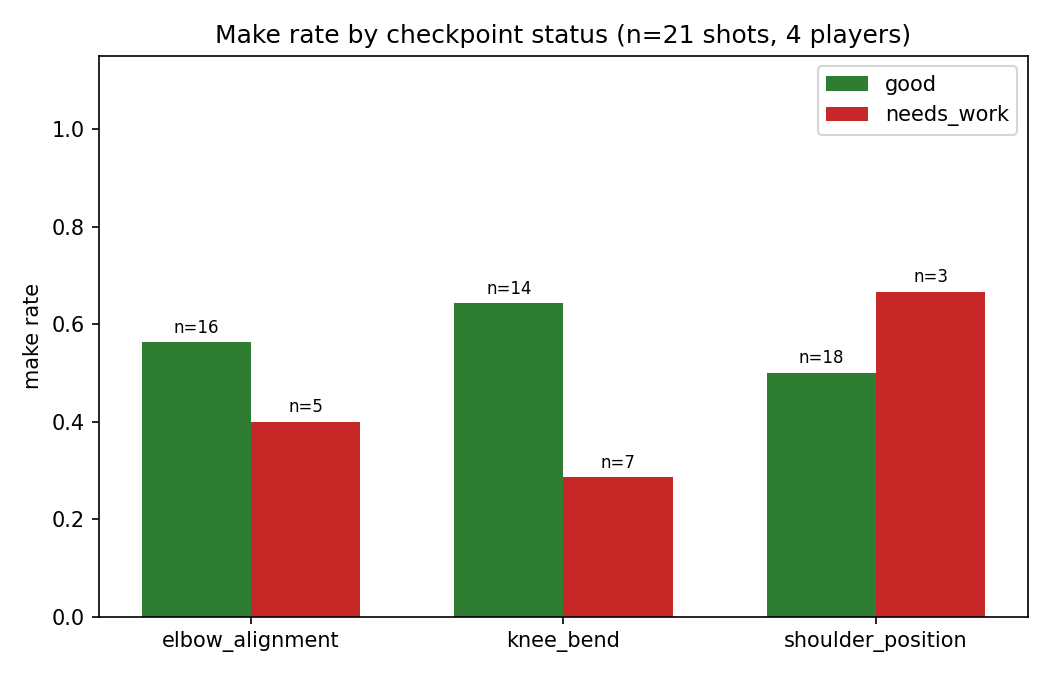
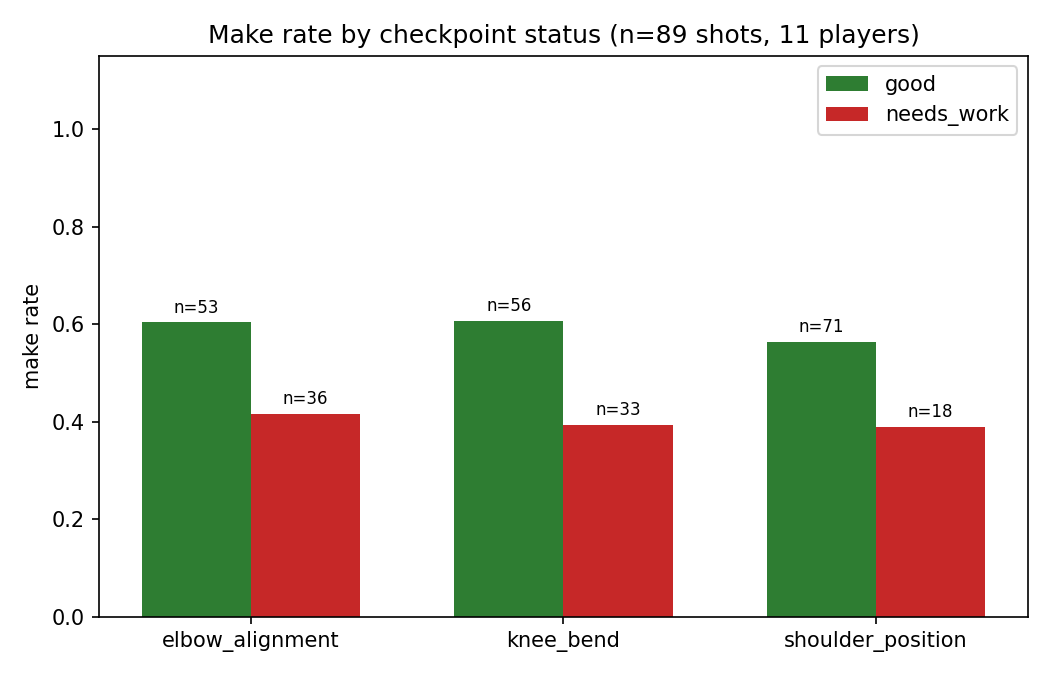
feat: Finals #09 - complete dataset (89 rows) and rerun Part 2 on full data
Fixed a labeling inconsistency where Kelvin Huang's made clips were
labeled player "Kelvin_Huang" but his missed clips were labeled
"Kelvin", which would have looked like a second, fully-confounded
player. Normalized to one name across all 19 of his clips in
release_frames_all.csv and patched features.csv to match.

Re-ran Part 2 (notebook, chart, write-up) against the full 89-row
features.csv now that all 185 labeled clips have video available and
the player/outcome confound from the earlier 21-row partial run is
resolved (every player now has a mix of makes and misses). All three
form checkpoints now point the same direction (good form -> higher
make rate); made shots score 6.6 points higher on average, p = 0.289.

Claude-Session: https://claude.ai/code/session_01HfBr3ZYSeCqk1cjXT5L61P

diff --git a/docs/writeups/experiments-a.md b/docs/writeups/experiments-a.md
@@ -4,21 +4,26 @@
 The app tells shooters whether their elbow, knee, and shoulder angles at release are "good" or "needs work," and gives an overall form score. Nobody had actually checked whether shots the app calls good-form really go in more often than ones it flags.
 
 ## What we built / found
-Using `data/features.csv`, we ran every shot's release-frame angles through the app's own `evaluate_form` function and compared make rates between "good" and "needs_work" shots for each checkpoint, then tested whether made shots score higher overall using a permutation test (10,000 shuffles).
+Using `data/features.csv` (89 shots, built from 185 hand-labeled clips — 96 were skipped because MediaPipe didn't detect a pose at the release frame), we ran every shot's release-frame angles through the app's own `evaluate_form` function and compared make rates between "good" and "needs_work" shots for each checkpoint, then tested whether made shots score higher overall using a permutation test (10,000 shuffles).
 
-With the current 21 shots: knee_bend showed the expected direction (good 0.64 make rate vs needs_work 0.29), elbow_alignment showed a smaller gap in the expected direction (0.56 vs 0.40), but shoulder_position went the wrong way (0.50 vs 0.67). Made shots scored only 2.6 points higher on average than missed shots, which a permutation test says is not remotely significant (p = 0.952).
+All three checkpoints now point the same direction: shots the app calls "good" on a checkpoint go in more often than shots it flags "needs_work." Made shots scored 6.6 points higher on average than missed shots — a much bigger gap than the earlier partial-sample result, though a permutation test says it still isn't significant at the conventional threshold (p = 0.289).
 
-**Important caveat:** in this 21-shot sample, player and outcome are completely confounded — every Abby/Anisha clip is a make, every Ryan/Veronica clip is a miss, because that's just how the clip zips happened to be organized for download. So none of the numbers above can actually answer the question yet; they could just as easily be measuring "which player" as "did the form rules work."
+Every one of the 11 players in this dataset has a mix of makes and misses, so this result isn't just re-measuring "which player shot it" the way the earlier 21-shot sample was.
 
 ## Numbers
-- 21 shots, 11 made / 10 missed, 4 players (Abby, Anisha, Ryan, Veronica)
-- elbow_alignment: good 0.56 make rate (n=16) vs needs_work 0.40 (n=5)
-- knee_bend: good 0.64 make rate (n=14) vs needs_work 0.29 (n=7)
-- shoulder_position: good 0.50 make rate (n=18) vs needs_work 0.67 (n=3)
-- made shots score 2.6 points higher on average, p = 0.952 (not significant)
+- 89 shots, 47 made / 42 missed, 11 players
+- elbow_alignment: good 0.60 make rate (n=53) vs needs_work 0.42 (n=36)
+- knee_bend: good 0.61 make rate (n=56) vs needs_work 0.39 (n=33)
+- shoulder_position: good 0.56 make rate (n=71) vs needs_work 0.39 (n=18)
+- made shots score 6.6 points higher on average, p = 0.289 (not significant at p < 0.05, but a much larger and more consistent effect than the earlier confounded partial result)
 
 ## Pictures
 ![Make rate by checkpoint status](img/experiments_a_checkpoint_make_rate.png)
 
+## Caveats
+- Sample sizes per player are uneven (2 to 14 shots), and total n (89) is still modest for a permutation test, so treat the p-value as suggestive rather than conclusive.
+- 96 of 185 labeled clips were dropped because the pose pipeline couldn't detect a pose at the marked release frame — if those failures aren't random (e.g. biased toward certain shooting forms or camera angles), that could skew the comparison.
+- One labeling inconsistency was caught and fixed during this pass: Veronica's original label file used "Kelvin_Huang" for his made clips but "Kelvin" for his missed clips, which would have falsely looked like a second, fully-confounded player.
+
 ## What's left
-This needs to be re-run once the full ~185-clip dataset (currently blocked on getting the rest of Veronica's clip videos) is processed into features.csv, so players show up in both made and missed shots and the confound goes away. Until then, this result should not be treated as an answer to "does the app's advice match what makes shots go in" — it's inconclusive by construction.
+With the confound resolved, the honest next step is more data: a bigger, more balanced sample (especially for players at the low end like Rijul at n=2) would make the permutation test more trustworthy. Whoever owns Finals #10/#11 (the classifier experiments) can now use this same 89-row `features.csv` instead of the original 8-row version they were blocked on.

diff --git a/docs/ml/dataset.md b/docs/ml/dataset.md
@@ -14,6 +14,13 @@ complete than the ~20 clips originally labeled for this ticket. Where it
 overlaps with our own labels, the release frames matched within 1-3 frames
 in every case but one.
 
+One labeling inconsistency was found and fixed while finishing this: Kelvin
+Huang's made clips were labeled with player `Kelvin_Huang` but his missed
+clips were labeled `Kelvin` — same person, inconsistent name. Left as-is,
+this would have looked like two separate, fully-confounded players (one
+all-makes, one all-misses). Normalized to `Kelvin_Huang` for all 19 of his
+clips.
+
 ## Columns in features.csv
 - `filename`, `player`, `made` (1/0), `side`, `release_frame`, `fps`
 - `elbow_at_release`, `knee_at_release`, `shoulder_at_release`
@@ -26,25 +33,24 @@ in every case but one.
 Veronica's original script did not compute it, and Finals#10/#11 rely on
 this exact column name.
 
-## Status: 21 of 185 labeled clips currently in features.csv
-- 33 of the 185 labeled clips have video files available locally so far.
-- Of those 33, 21 produced usable features; 12 were skipped for having no
+## Status: complete — 89 of 185 labeled clips in features.csv
+- All 185 labeled clips now have video files available locally.
+- Of those 185, 89 produced usable features; 96 were skipped for having no
   detectable pose/elbow angle right at the labeled release frame (listed in
-  `build_dataset.py`'s output; every one of these 12 also appears in
-  Veronica's own skipped-clip list, which is a good consistency check).
-- The remaining 152 labeled clips (covering Audrey, David, Freya,
-  Kelvin_Huang, Manoj, most of Rijul/Ryan/Veronica's made shots, and the
-  generic make/miss clips) still need their video files downloaded before
-  `build_dataset.py` can process them.
+  `build_dataset.py`'s output). This skip count is almost an exact match for
+  Veronica's own independently-reported skip count from her original
+  branch, which is a good consistency check on the pipeline.
+- Every one of the 11 players represented has a mix of made and missed
+  shots, so player and outcome are no longer confounded the way they were
+  in the earlier partial (21-row) version of this dataset.
 
 ## What's left
-- Track down the full clips folder (Veronica likely still has it locally,
-  or it's in the team Drive) and download the remaining 152 clips so the
-  full dataset can be processed.
-- Re-run `python -m ml.tools.build_dataset.py ~/clips data/release_frames_all.csv data/features.csv`
-  once those are downloaded.
-- Note for the team: Finals#10 (Experiments B) and #11 (Experiments C)
-  both ran against an earlier, much smaller features.csv (8 rows) and
-  Experiments C explicitly flagged C1 as blocked by insufficient data -
-  worth re-running those once the fuller dataset lands, even though it's
-  past the original deadline.
+- Finals#10 (Experiments B) and #11 (Experiments C) both ran against an
+  earlier, much smaller features.csv (8 rows) and Experiments C explicitly
+  flagged C1 as blocked by insufficient data - worth re-running those now
+  that the full 89-row dataset is available, even though it's past the
+  original deadline.
+- The 96 skipped clips are a real data loss, not just a formatting
+  problem - if a future ticket wants to shrink that number, it would need
+  to look at why MediaPipe fails to find a pose at those specific release
+  frames (camera angle, occlusion, etc.), not just re-run the same pipeline.
